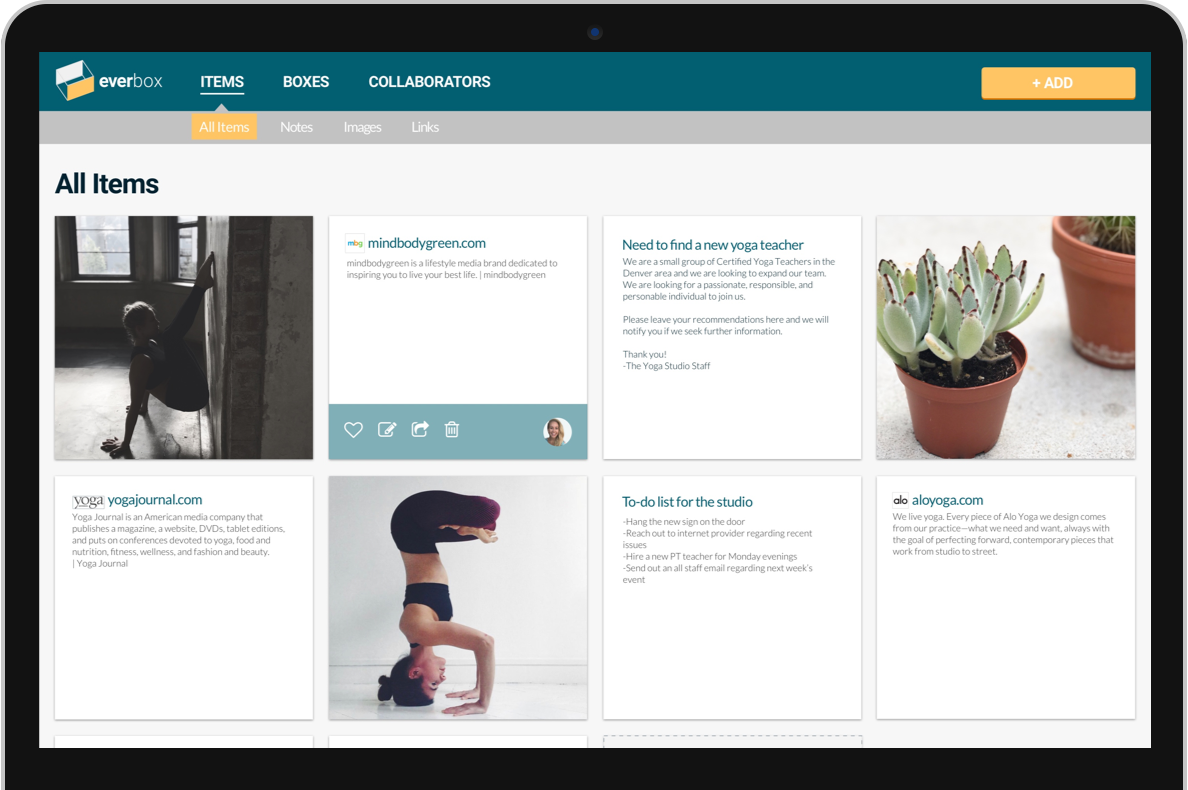
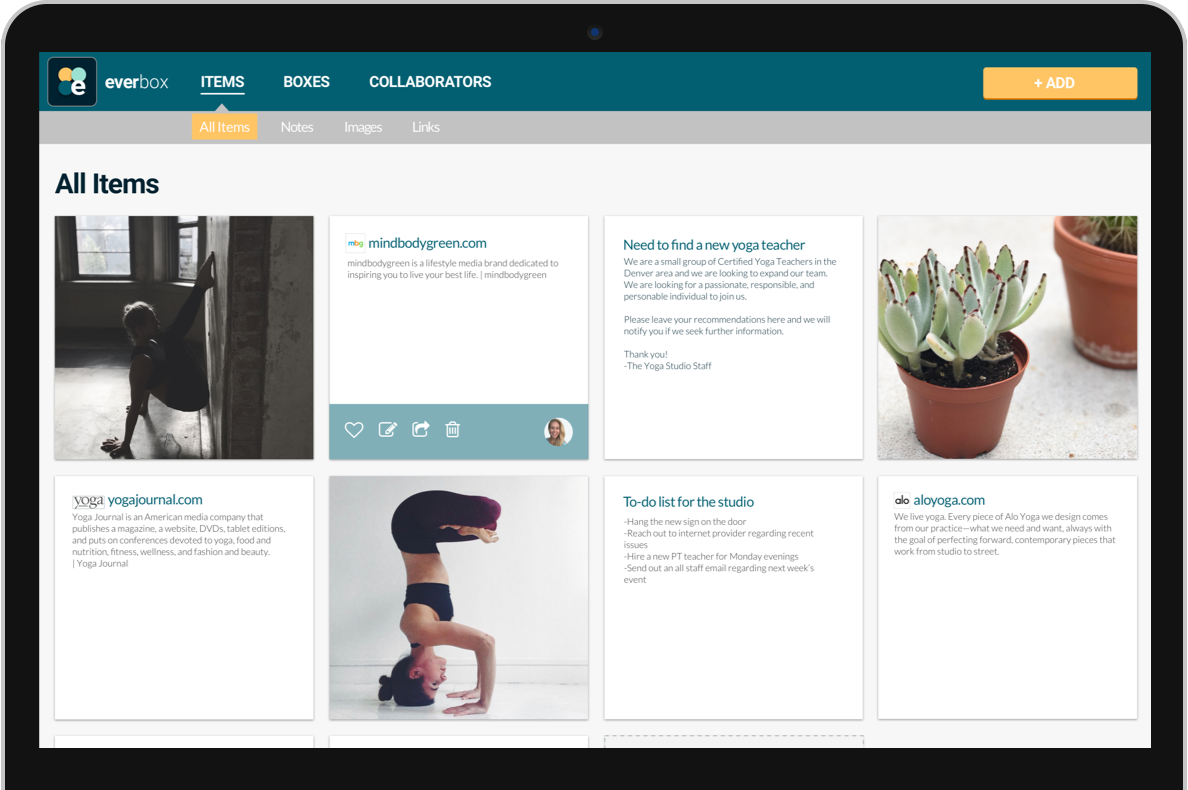
Checkpoint 35, Final Push-Deploying Everbox

diff --git a/dashboard.html b/dashboard.html
@@ -8,7 +8,7 @@
     <title>Dashboard | Everbox</title>
 
     <!-- Google Fonts -->
-    <link href="https://fonts.googleapis.com/css?family=Lato|Roboto" rel="stylesheet">
+    <link href="https://fonts.googleapis.com/css?family=Lato:100,100i,300,300i,400,400i,700|Roboto:100,100i,300,300i,400,400i,500,500i,700" rel="stylesheet">
 
     <!-- CSS -->
     <link rel="stylesheet" href="css/normalize.css">
@@ -32,7 +32,7 @@
         <li><a href="#"><div class="active"><i class="fa fa-th-large"></i>All Items</div></a></li>
         <li><a href="#"><i class="fa fa-file-o"></i> Notes</a></li>
         <li><a href="#"><i class="fa fa-picture-o"></i> Images</a></li>
-        <li><a href="#"><i class="fa fa-chain>"></i> Links</a></li>
+        <li><a href="#"><i class="fa fa-link>"></i> Links</a></li>
       </ul>
       <p>Boxes</p>
       <ul>
@@ -42,8 +42,8 @@
       </ul>
     </div>
     <div class="settings">
-      <img src="https://s3.amazonaws.com/uifaces/faces/twitter/jsa/128.jpg">
-      <p>Joey Kirk</p>
+      <img src="https://s3.amazonaws.com/uifaces/faces/twitter/adellecharles/128.jpg">
+      <p>Andi A.</p>
       <div class="dropdown">
         <button onclick="myFunction()" class="dropbtn"><i class="fa fa-cog"></i></button>
         <div id="myDropdown" class="dropdown-content">
@@ -79,59 +79,64 @@
       <div class="container">
         <div class="content-item">
           <div class="item-box">
-            <img src="https://images.pexels.com/photos/3540/restaurant-alcohol-bar-drinks.jpg?w=940&h=650&auto=compress&cs=tinysrgb">
+            <img src="https://images.pexels.com/photos/374633/pexels-photo-374633.jpeg?w=1260&h=750&auto=compress&cs=tinysrgb">
           </div>
         </div>
         <div class="content-item">
           <div class="item-box">
-            <h2><img class="favicon" src="https://www.airbnb.com/favicon.ico"><a href="#">airbnb.com</a></h2>
-            <p>Vacation Rentals, Homes, Apartments &amp; Rooms for Rent &mdash; Airbnb</p>
+            <h2><img class="favicon" src="https://www.mindbodygreen.com/favicon.ico"><a href="#">mindbodygreen.com</a></h2>
+            <p>mindbodygreen is a lifestyle media brand dedicated to inspiring you to live your best life. | mindbodygreen</p>
           </div>
         </div>
         <div class="content-item">
           <div class="item-box">
-            <h2><a href="#">Need to find a designer</a></h2>
-            <p>We have a one-person design team, but are ready to expand. We need to look for a second designer right now so we can continue to grow.</p>
-            <p>Put your recommendations here so we can view all of them. ...</p>
+            <h2><a href="#">Need to find a new yoga teacher</a></h2>
+            <p>We are a small group of Certified Yoga Teachers in the Denver area and we are looking to expand our team. We are looking for a passionate, responsible, and personable individual to join us.</p>
+              <p>Please leave your recommendations here and we will notify you if we seek further information.</p>
+              <p>Thank you!</p>
+              <p>-The Yoga Studio Staff</p>
           </div>
         </div>
         <div class="content-item">
           <div class="item-box">
-            <img src="https://images.pexels.com/photos/7065/space-desk-office-hero-7065.jpg?h=350&auto=compress&cs=tinysrgb">
+            <img src="https://images.pexels.com/photos/374882/pexels-photo-374882.jpeg?w=1260&h=750&auto=compress&cs=tinysrgb">
           </div>
         </div>
         <div class="content-item">
           <div class="item-box">
-            <h2><a href="#">Testing</a></h2>
-            <p>I love lamp.</p>
+            <h2><a href="#">Top Hashtags for Instagram</a></h2>
+            <p>#ootd #foodie #yoga #love #happy #weekend #IGYogaFam #IG_Likes #CantStopWontStop</p>
           </div>
         </div>
         <div class="content-item">
           <div class="item-box">
-            <h2><img class="favicon" src="https://www.invisionapp.com/favicon.ico"> <a href="#">invisionapp.com</a></h2>
-            <p>Free Web &amp; Mobile (iOS, Android) Prototyping and UI Mockup Tool | InVision</p>
+            <h2><img class="favicon" src="https://www.yogajournal.com/favicon.ico"> <a href="#">yogajournal.com</a></h2>
+            <p>Yoga Journal is an American media company that publishes a magazine, a website, DVDs, tablet editions, and puts on conferences devoted to yoga, food and nutrition, fitness, wellness, and fashion and beauty. | Yoga Journal</p>
           </div>
         </div>
         <div class="content-item">
           <div class="item-box">
-            <img src="https://images.pexels.com/photos/38892/pexels-photo-38892.jpeg?h=350&auto=compress&cs=tinysrgb">
+            <img src="https://images.pexels.com/photos/199691/pexels-photo-199691.jpeg?w=1260&h=750&auto=compress&cs=tinysrgb">
           </div>
         </div>
         <div class="content-item">
           <div class="item-box">
-            <h2><a href="#">Why storing inspiration is great</a></h2>
-            <p>blocbox is a new tool to help collect and store your inspiration and information. From images, to links, to notes like this one, you can keep track of all your favorite things.</p>
+            <h2><a href="#">To-do list for the studio</a></h2>
+            <p>-Hang the new sign on the door<br/>
+              -Reach out to internet provider regarding recent issues<br/>
+              -Hire a new PT teacher for Monday evenings<br/>
+              -Send out an all staff email regarding next week’s event</p>
           </div>
         </div>
         <div class="content-item">
           <div class="item-box">
-            <h2><img class="favicon" src="https://www.yourkarma.com/favicon.ico"> <a href="#">yourkarma.com</a></h2>
-            <p>Karma Go lets you take WiFi everywhere. Pay-as-you-go for data that never expires. No contracts or monthly fees. With nationwide coverage on LTE, stay connected to the internet with all of your devices, seamlessly.</p>
+            <h2><img class="favicon" src="https://www.aloyoga.com/favicon.ico"><a href="#">aloyoga.com</a></h2>
+            <p>We live yoga. Every piece of Alo Yoga we design comes from our practice—what we need and want, always with the goal of perfecting forward, contemporary pieces that work from studio to street. | Alo Yoga</p>
           </div>
         </div>
         <div class="content-item">
           <div class="item-box">
-            <img src="http://41.media.tumblr.com/0390d80d6c8cc4a7096033182a4bfe8a/tumblr_ndyvukSjNl1tubinno1_1280.jpg">
+            <img src="https://cdn.pixabay.com/photo/2015/09/18/15/48/photography-945822__480.jpg">
           </div>
         </div>
       </div>

diff --git a/index.html b/index.html
@@ -122,29 +122,29 @@
       <li class="one-fourth">
         <blockquote>"everbox has made it easier to find and keep things I love. I can share with other designers on my team and create new categories with awesome stuff. And creating simple text documents couldn't be easier."
         </blockquote>
-        <img src="https://s3.amazonaws.com/uifaces/faces/twitter/jsa/128.jpg" alt="avatar">
-        <p class="name"><strong>Stella B.</strong><br/>Freelance Designer, N. Dakota</p>
+        <img src="https://pbs.twimg.com/profile_images/718588760003383296/2AG8omMO_400x400.jpg" alt="avatar">
+        <p class="name"><strong>Andi A.</strong><br/>Freelance Designer, N. Dakota</p>
       </li>
       <li class="one-fourth">
         <div class="v2">
-          <blockquote>"everbox has made it easier to find and keep things I love. I can share with other designers on my team and create new categories with awesome stuff. And creating simple text documents couldn't be easier."
+          <blockquote>"I love what everbox has done for my work. It’s made storing and sharing so easy and fluid with my coworkers. Projects can move along much more seemlessly!”
           </blockquote>
           <img src="https://s3.amazonaws.com/uifaces/faces/twitter/jsa/128.jpg" alt="avatar">
-          <p class="name"><strong>Stella B.</strong><br/>Freelance Designer, N. Dakota</p>
+          <p class="name"><strong>Teddy B.</strong><br/>UX/IU Designer, New York City</p>
         </div>
       </li>
       <li class="one-fourth">
-        <blockquote>"everbox has made it easier to find and keep things I love. I can share with other designers on my team and create new categories with awesome stuff. And creating simple text documents couldn't be easier."
+        <blockquote>"This is a product meant for any company of any size. Whether you are looking for a better way to share across departments, within a team, or with team members around the world, this product is priceless. We use it everyday.”"
         </blockquote>
-        <img src="https://s3.amazonaws.com/uifaces/faces/twitter/jsa/128.jpg" alt="avatar">
-        <p class="name"><strong>Stella B.</strong><br/>Freelance Designer, N. Dakota</p>
+        <img src="https://s3.amazonaws.com/uifaces/faces/twitter/jadlimcaco/128.jpg" alt="avatar">
+        <p class="name"><strong>John W.</strong><br/>Account Manager, Pheonix</p>
       </li>
       <li class="one-fourth">
         <div class="v2">
-          <blockquote>"everbox has made it easier to find and keep things I love. I can share with other designers on my team and create new categories with awesome stuff. And creating simple text documents couldn't be easier."
+          <blockquote>"It’s the perfect place for me to put all of my information. Before everbox I was an avid Pinterest user, but it just didn’t meet all of my needs the way everbox does. Now I can save more than just images, and I can keep it all so organized and accessible."
           </blockquote>
-          <img src="https://s3.amazonaws.com/uifaces/faces/twitter/jsa/128.jpg" alt="avatar">
-          <p class="name"><strong>Stella B.</strong><br/>Freelance Designer, N. Dakota</p>
+          <img src="https://s3.amazonaws.com/uifaces/faces/twitter/andyvitale/128.jpg" alt="avatar">
+          <p class="name"><strong>Maxwell L.</strong><br/>Lead Brand Designer, Orlando</p>
         </div>
       </li>
     </ul>

diff --git a/css/style.css b/css/style.css
@@ -261,6 +261,7 @@ header .hero img {
   padding:30px;
   width:auto;
   margin:0;
+  border-radius:10px;
 }
 .testimonials blockquote:after {
   top: 100%;
@@ -398,8 +399,8 @@ footer .logo {
 .left-nav.open {
   display:block;
   width:280px;
-  background:#025F71;
-  background-image: linear-gradient(206deg, #5F81a3 0%, #025F71 94%);
+  background:#002130;
+  background-image: linear-gradient(206deg, #002130 0%, #9E9E9E 94%);
   -webkit-transition: all 0.3s ease-in-out;
   -moz-transition: all 0.3s ease-in-out;
   -o-transition: all 0.3s ease-in-out;
@@ -413,7 +414,7 @@ footer .logo {
 .hamburger {
   position: absolute;
   z-index:1000;
-  background:#34495e;
+  background:#9CE3D3;
   color:#FFFFFF;
   text-decoration:none;
   font-size:22px;
@@ -427,8 +428,8 @@ footer .logo {
     height:100vh;
     width:14.66666667%;
     color:#FFFFFF;
-    background: #34495e;
-    background-image: linear-gradient(206deg, #5F81a3 0%, #025F71 94%);
+    background: #002130;
+    background-image: linear-gradient(206deg, #002130 0%, #9E9E9E 94%);
     float:left;
     position:fixed;
     display:block;
@@ -445,8 +446,8 @@ footer .logo {
 
 
 .left-nav .site-logo{
-  padding:20px 0;
-  background: ##008AA5;
+  padding:20px 0 20px;
+  background: ##007E96;
   display:block;
   text-align:center;
 }
@@ -483,6 +484,7 @@ footer .logo {
   background-color:#FFC565;
   text-decoration: none;
   font-weight: 100;
+  border-radius:1px;
 }
 
 
@@ -530,15 +532,16 @@ footer .logo {
   width:98%;
   position:relative;
 }
+
 .content .header {
   margin:0 1% 20px;
 }
 .content .header h1 {
-  font-family:"Lato", Helvetica, Arial, sans-serif;
-  font-weight: 100;
+  font-family:"Roboto", "open sans", sans-serif;
+  font-weight: bold;
   margin:0 0 30px;
   font-size: 36px;
-  color: #3498db;
+  color: #002130;
   line-height:44px;
   float:left;
   display:inline-block;
@@ -614,10 +617,14 @@ footer .logo {
   position: absolute;
   height:100%;
   width:auto;
-  top:0;
-  left:0;
+  top:50%;
+  left:50%;
   right:0;
+  margin:0;
+  margin-right:50%;
+  transform: translate(-50%, -50%)
 }
+
 .item-box h2 {
   font-family:'Lato', helvetica, arial, sans-serif;
   font-weight:700;
@@ -626,7 +633,7 @@ footer .logo {
   margin:0;
 }
 .item-box h2 a {
-  color: #3498db;
+  color: #025F71;
   text-decoration: none;
 }
 .item-box h2 img {
@@ -637,16 +644,17 @@ footer .logo {
   margin-right:5px;
 }
 .item-box p {
-  font-size:14px;
-  color: #333333;
-  line-height: 18px;
+  font-size:12px;
+  font-weight:lighter;
+  color: #9E9E9E;
+  line-height: 15px;
   margin:5px 0 0;
 }
 
-/* Dropdown Button */
+/* Settings Dropup Button */
 .dropbtn {
     width:auto;
-    background-color: none;
+    background-color:transparent;
     color: white;
     padding: 6px;
     font-size: 16px;
@@ -680,7 +688,7 @@ footer .logo {
     border-radius:4px;
     height:175px;
     top:-180px;
-    right:-155px;
+    left:-100px;
 }
 
 /* Links inside the dropdown */

diff --git a/css/dropit.css b/css/dropit.css
@@ -55,8 +55,9 @@
   margin-bottom: 0px;
 }
 .dropit .dropit-open .dropit-submenu li a {
-  color:#34495e;
+  color:#002130;
   text-decoration:none;
   font-family:"Lato", Helvetica, Arial, sans-serif;
   font-weight:100;
+  align-items:center;
 }
